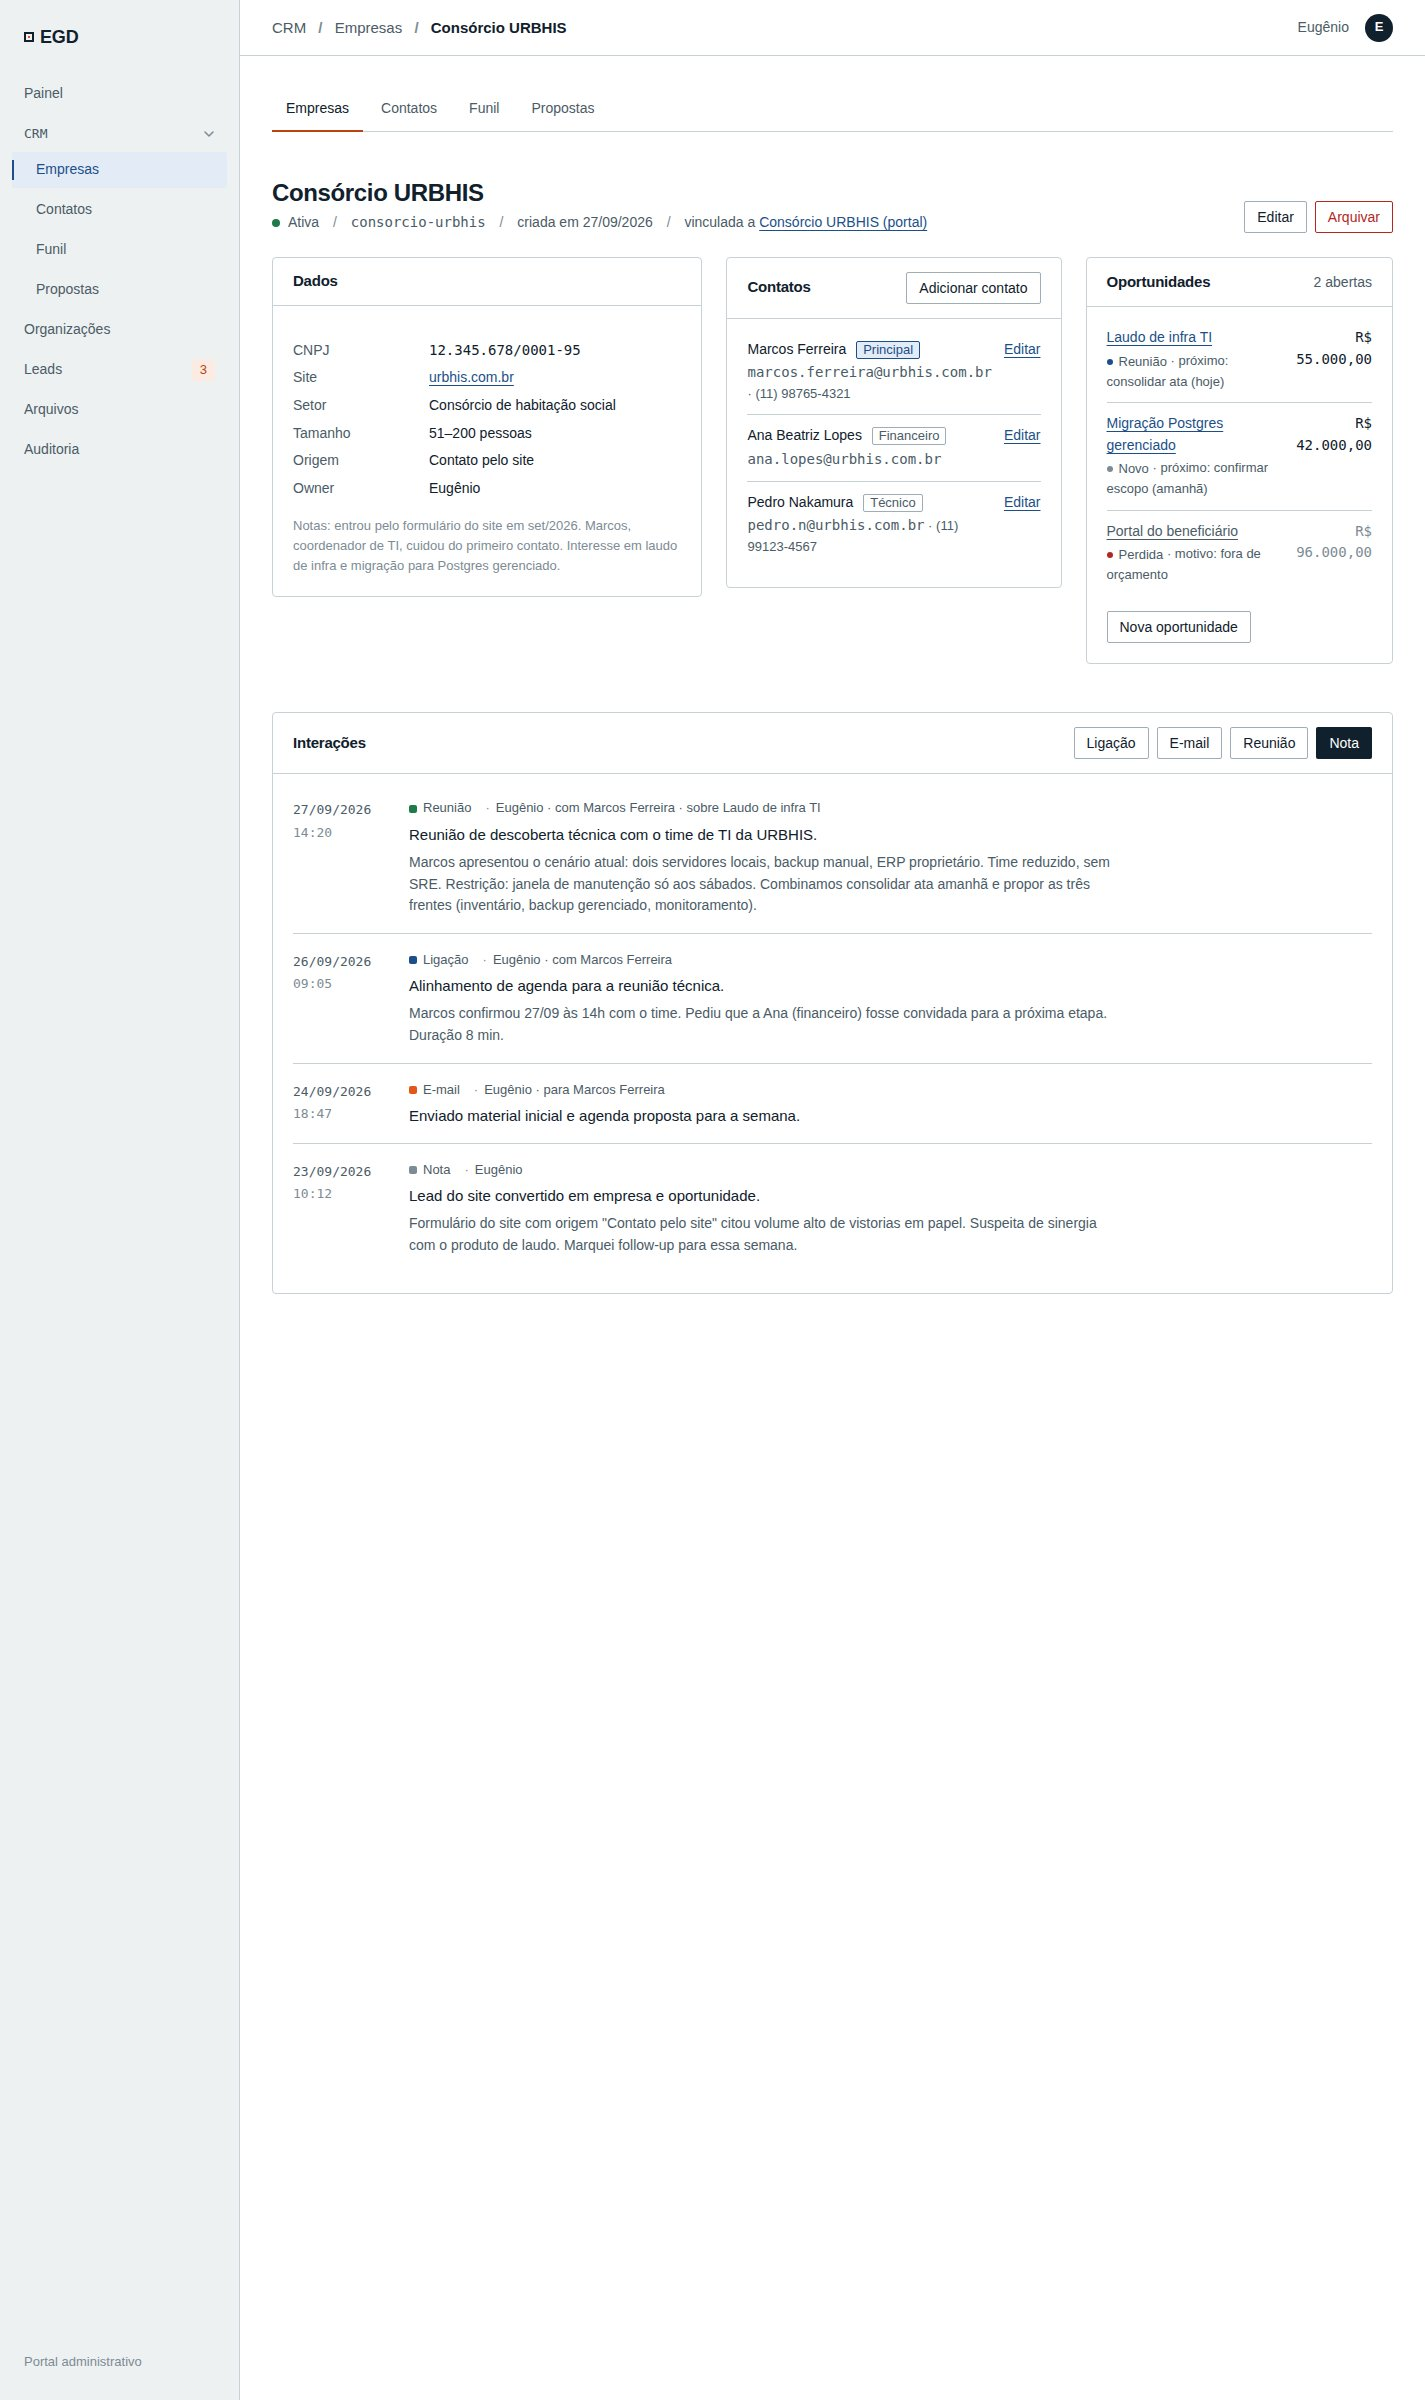
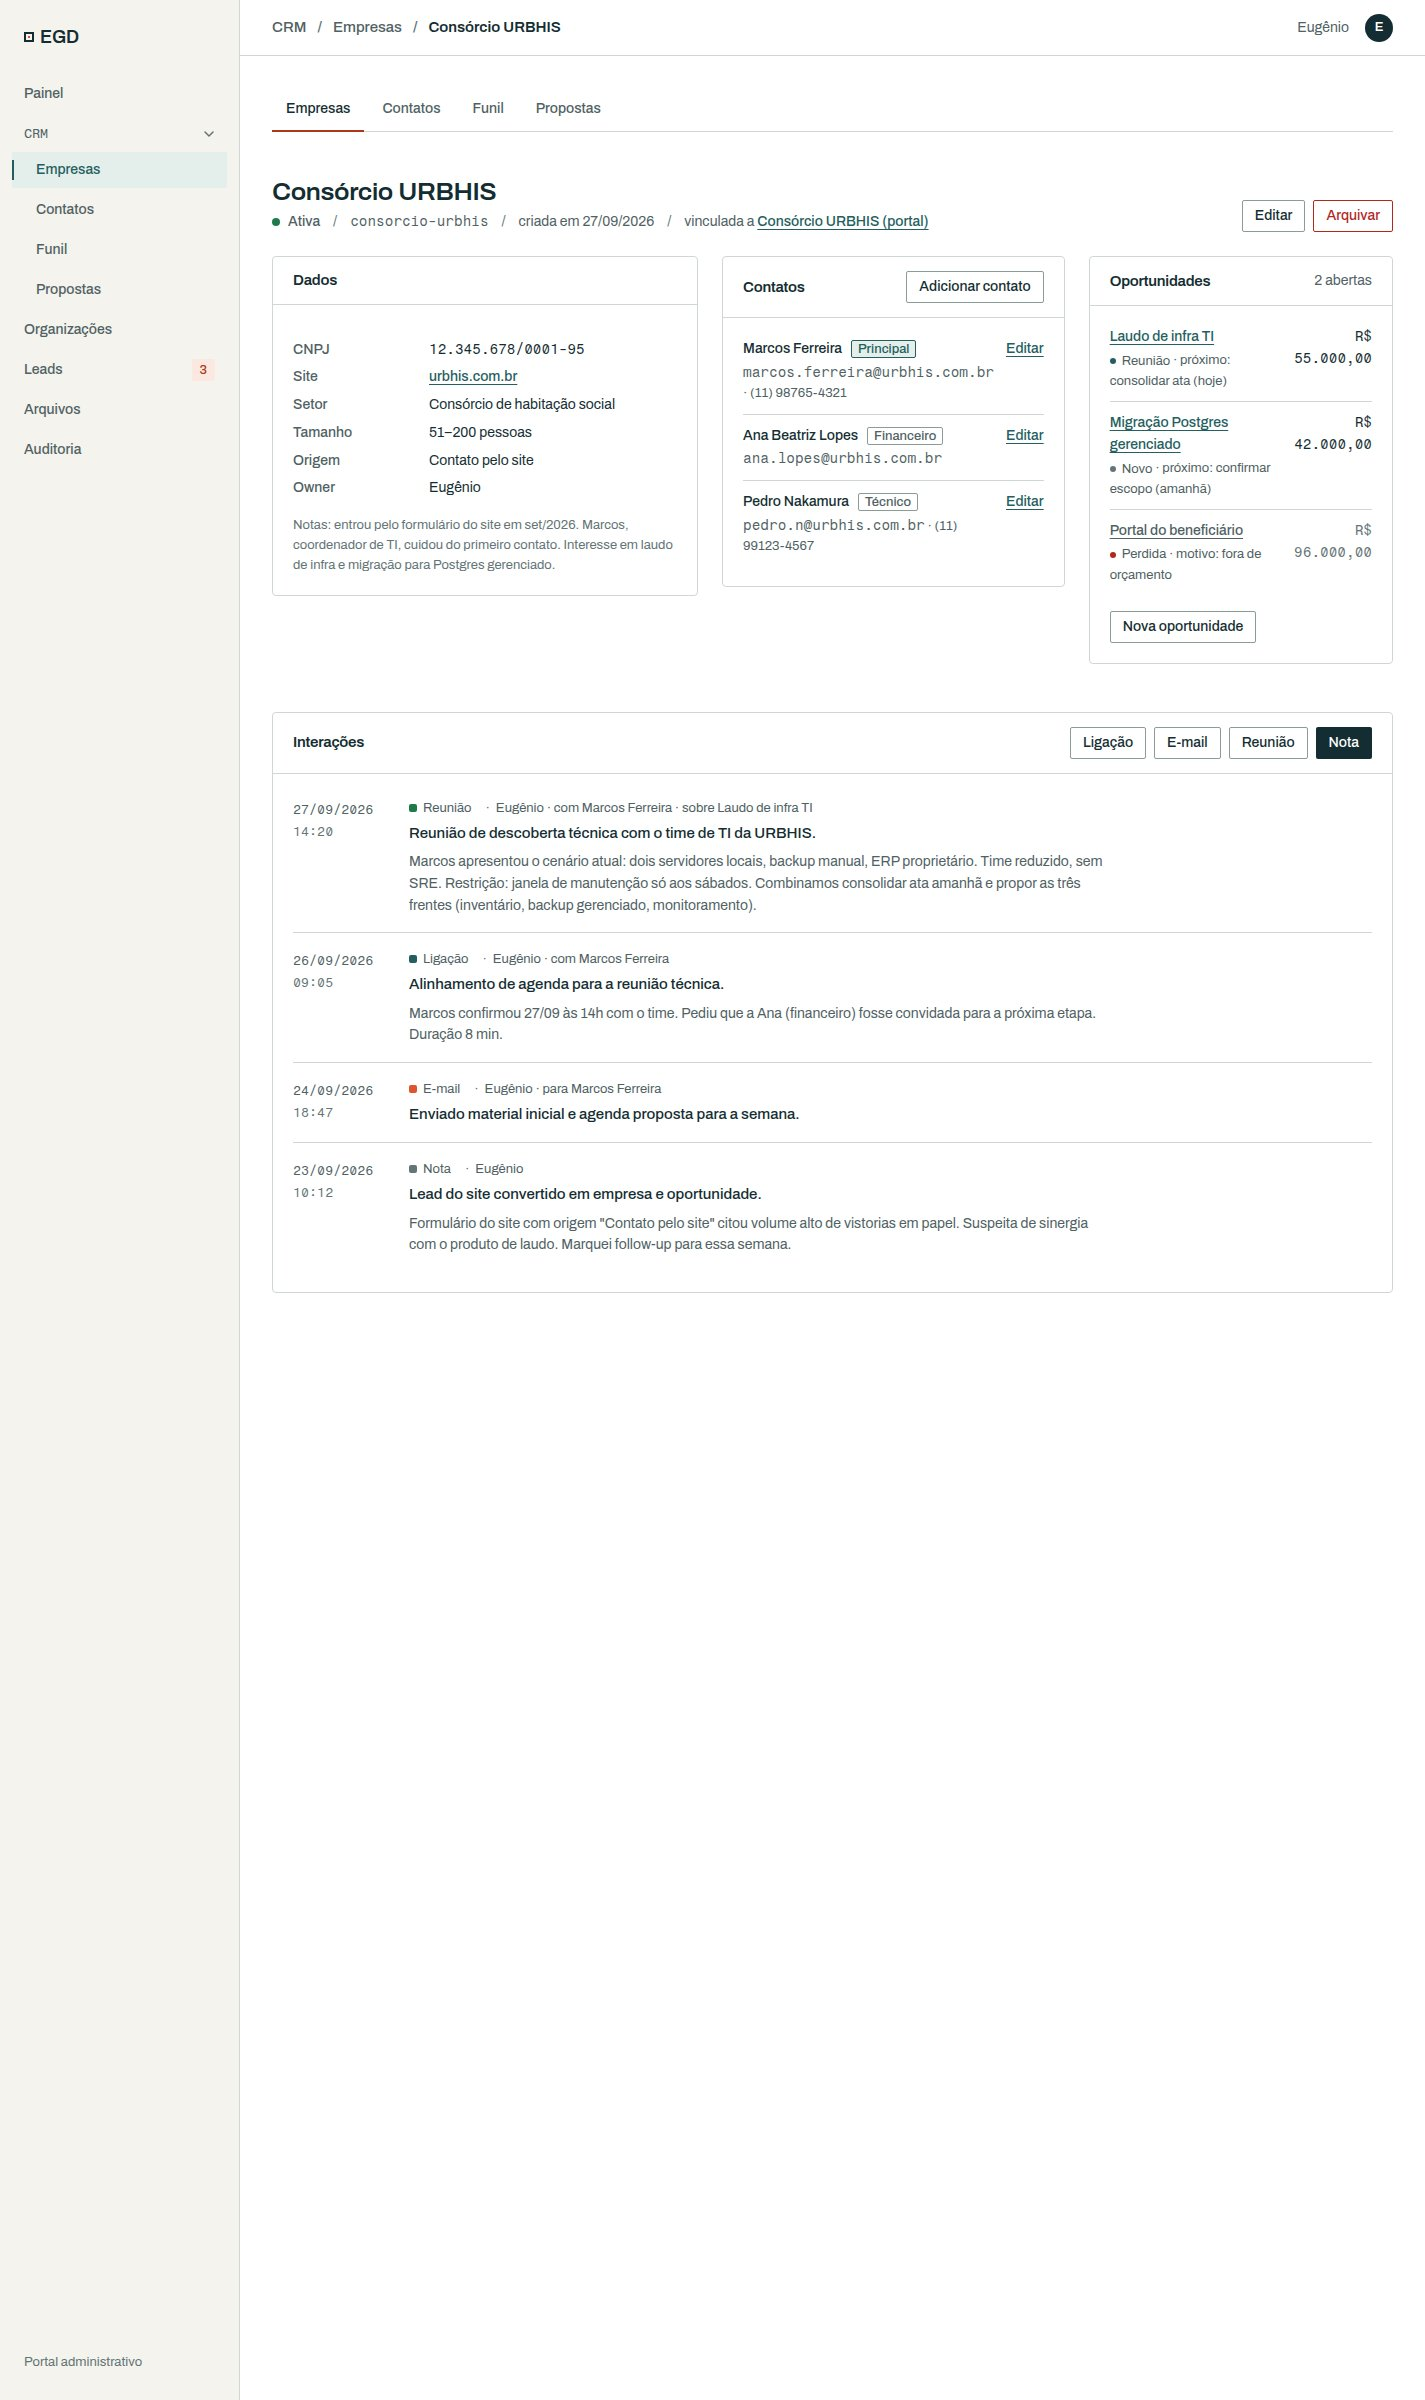
Alinha tokens dos mockups com o rebrand (manual da marca v1.0)
Só as primitivas de tokens.css mudam (papel #F4F3ED, tinta #142D32,
sinal #DF542E, projeto teal #245E60, régua #D0D7D2/#8B9B96). As
semânticas seguem iguais; nenhum HTML de mockup foi editado. Screenshots
regeneradas para os cinco mockups do CRM e para o admin-shell-crm.

diff --git a/docs/mockups/tokens.css b/docs/mockups/tokens.css
@@ -1,20 +1,22 @@
-/* EGD design tokens — proposta Fase 1 (ver docs/specs/design-system.md) */
+/* EGD design tokens — rebrand 2026-09-27 (ver docs/brand/manual-da-marca.md).
+   As semânticas abaixo continuam iguais; só as primitivas mudaram para bater
+   com src/app/globals.css. */
 :root {
-  /* primitivas */
-  --papel-100: #eef1f2;
-  --papel-50: #f7f8f9;
+  /* primitivas — brand manual v1.0 */
+  --papel-100: #f4f3ed;
+  --papel-50: #faf9f5;
   --folha: #ffffff;
-  --tinta-900: #10202c;
-  --tinta-800: #1b3040;
-  --tinta-600: #4b5b67;
-  --tinta-400: #7d8b95;
-  --regua-300: #c8d1d6;
-  --regua-500: #9fadb6;
-  --sinal-500: #e4571b;
-  --sinal-700: #b9440f;
-  --sinal-100: #fcebe2;
-  --projeto-600: #1c4f8a;
-  --projeto-100: #e3ecf6;
+  --tinta-900: #142d32;
+  --tinta-800: #24474b;
+  --tinta-600: #506164;
+  --tinta-400: #647477;
+  --regua-300: #d0d7d2;
+  --regua-500: #8b9b96;
+  --sinal-500: #df542e;
+  --sinal-700: #ad381a;
+  --sinal-100: #fbe9e1;
+  --projeto-600: #245e60;
+  --projeto-100: #e4eeea;
   --aprovado-600: #1e7a4b;
   --aprovado-100: #e1f2e8;
   --atencao-600: #b07600;
